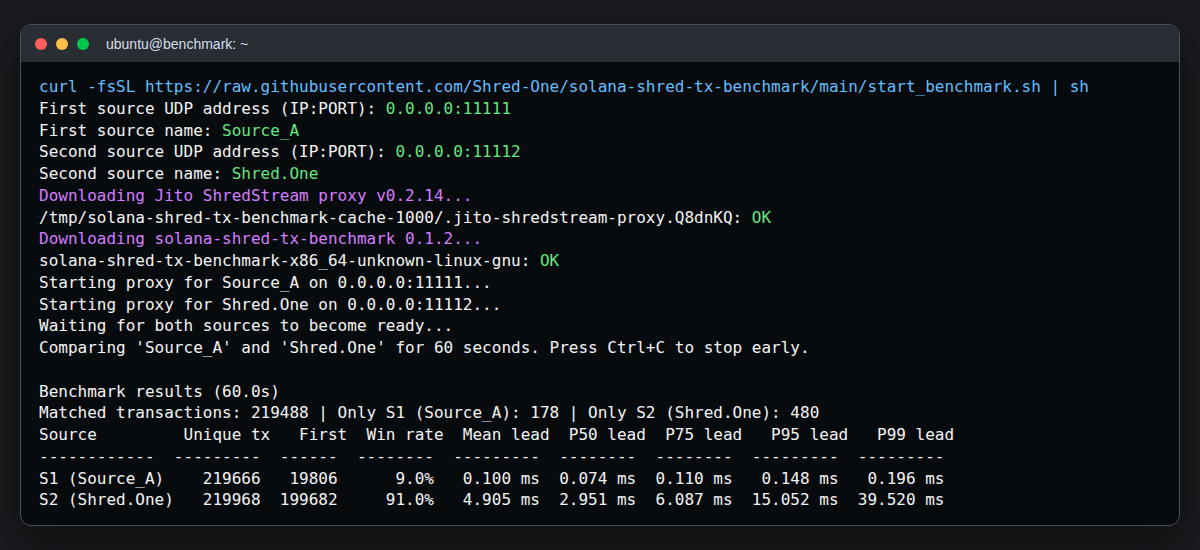
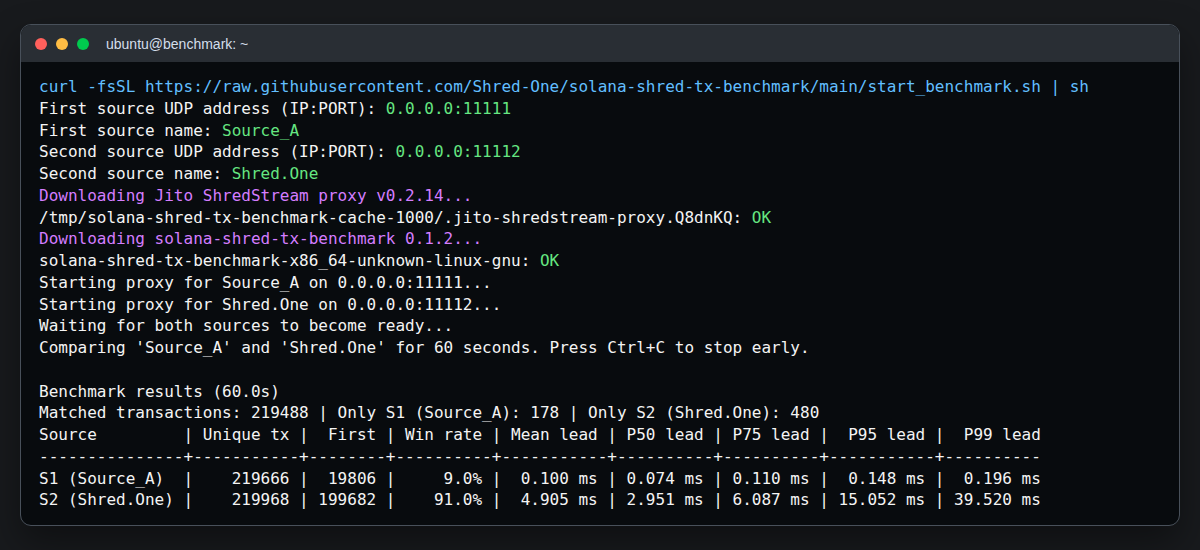
Clarify terminal table column boundaries

Changed region(s): [[0.1542, 0.8345, 0.8633, 0.9273], [0.1542, 0.7727, 0.8633, 0.8345]]

diff --git a/src/main.rs b/src/main.rs
@@ -362,7 +362,7 @@ fn render_table(rows: &[[String; 9]]) -> String {
     let mut lines = Vec::with_capacity(rows.len() + 1);
     for (row_index, row) in rows.iter().enumerate() {
         if row_index == 1 {
-            lines.push(widths.map(|width| "-".repeat(width)).join("  "));
+            lines.push(widths.map(|width| "-".repeat(width)).join("-+-"));
         }
         lines.push(
             row.iter()
@@ -376,7 +376,7 @@ fn render_table(rows: &[[String; 9]]) -> String {
                     }
                 })
                 .collect::<Vec<_>>()
-                .join("  "),
+                .join(" | "),
         );
     }
     lines.join("\n")
@@ -876,9 +876,22 @@ mod tests {
             ..Stats::default()
         };
         let table = stats.table(&names);
-        let widths = table.lines().map(str::len).collect::<Vec<_>>();
+        let lines = table.lines().collect::<Vec<_>>();
+        let widths = lines.iter().map(|line| line.len()).collect::<Vec<_>>();
+        let separators = lines
+            .iter()
+            .filter(|line| line.contains('|'))
+            .map(|line| {
+                line.match_indices('|')
+                    .map(|(index, _)| index)
+                    .collect::<Vec<_>>()
+            })
+            .collect::<Vec<_>>();
         assert!(widths.iter().all(|width| *width == widths[0]));
-        assert!(!table.contains('|'));
+        assert!(separators
+            .iter()
+            .all(|positions| *positions == separators[0]));
+        assert_eq!(separators[0].len(), 8);
         assert!(!table.contains('\x1b'));
         assert!(table.contains("60000.000 ms"));
         assert!(table.contains("S1 (one??[31m?)"));
